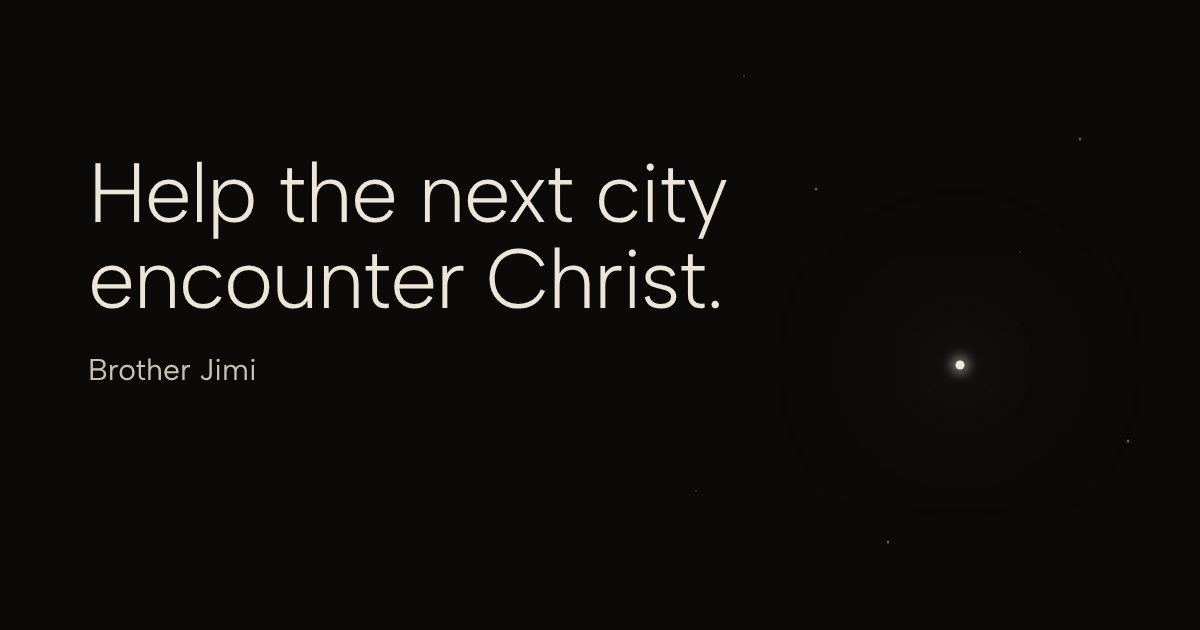
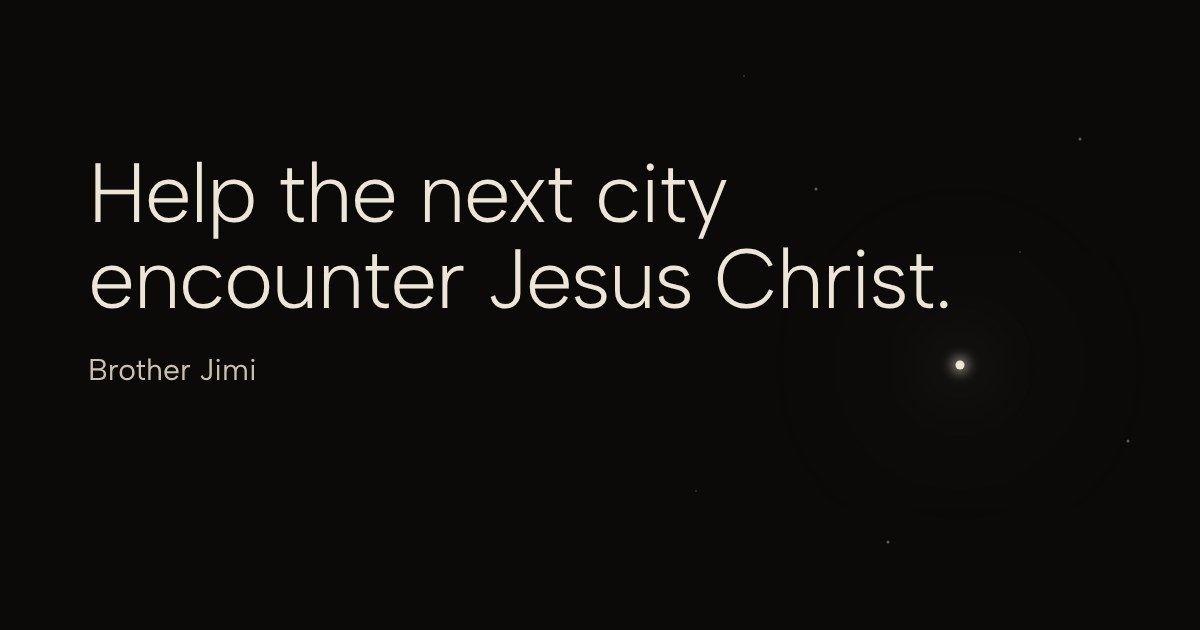
Update /partner wording and og image

Changed region(s): [[0.4008, 0.3921, 0.7708, 0.5127]]

diff --git a/site/partner/index.html b/site/partner/index.html
@@ -6,10 +6,10 @@
 <title>Partner · Brother Jimi</title>
 <!-- Unlisted: shared by Jimi one person at a time. Never linked from the site, never in the sitemap, never indexed. -->
 <meta name="robots" content="noindex, nofollow, noarchive">
-<meta name="description" content="Help the next city encounter Christ.">
+<meta name="description" content="Help the next city encounter Jesus Christ.">
 <meta property="og:type" content="website">
 <meta property="og:site_name" content="Brother Jimi">
-<meta property="og:title" content="Help the next city encounter Christ.">
+<meta property="og:title" content="Help the next city encounter Jesus Christ.">
 <meta property="og:description" content="Partner with Brother Jimi. Any amount, given freely.">
 <meta property="og:url" content="https://brotherjimi.com/partner">
 <meta property="og:image" content="https://brotherjimi.com/images/film/og-partner.jpg">
@@ -138,7 +138,7 @@ h1{margin:0;font:300 clamp(42px,11.5vw,72px)/1.02 var(--sans);letter-spacing:-.0
       <p class="cap">At a previous prayer line registration</p>
     </div>
     <div class="copy">
-      <h1 id="p-title">Help the next city encounter Christ.</h1>
+      <h1 id="p-title">Help the next city encounter Jesus Christ.</h1>
       <a class="give" data-give target="_blank" rel="noopener">Give<svg class="arrow" viewBox="0 0 24 24" aria-hidden="true"><path d="M5 12h13M13 6l6 6-6 6" fill="none" stroke="currentColor" stroke-width="1.8" stroke-linecap="round" stroke-linejoin="round"/></svg></a>
       <p class="how">Any amount, through Accrue.</p>
     </div>
